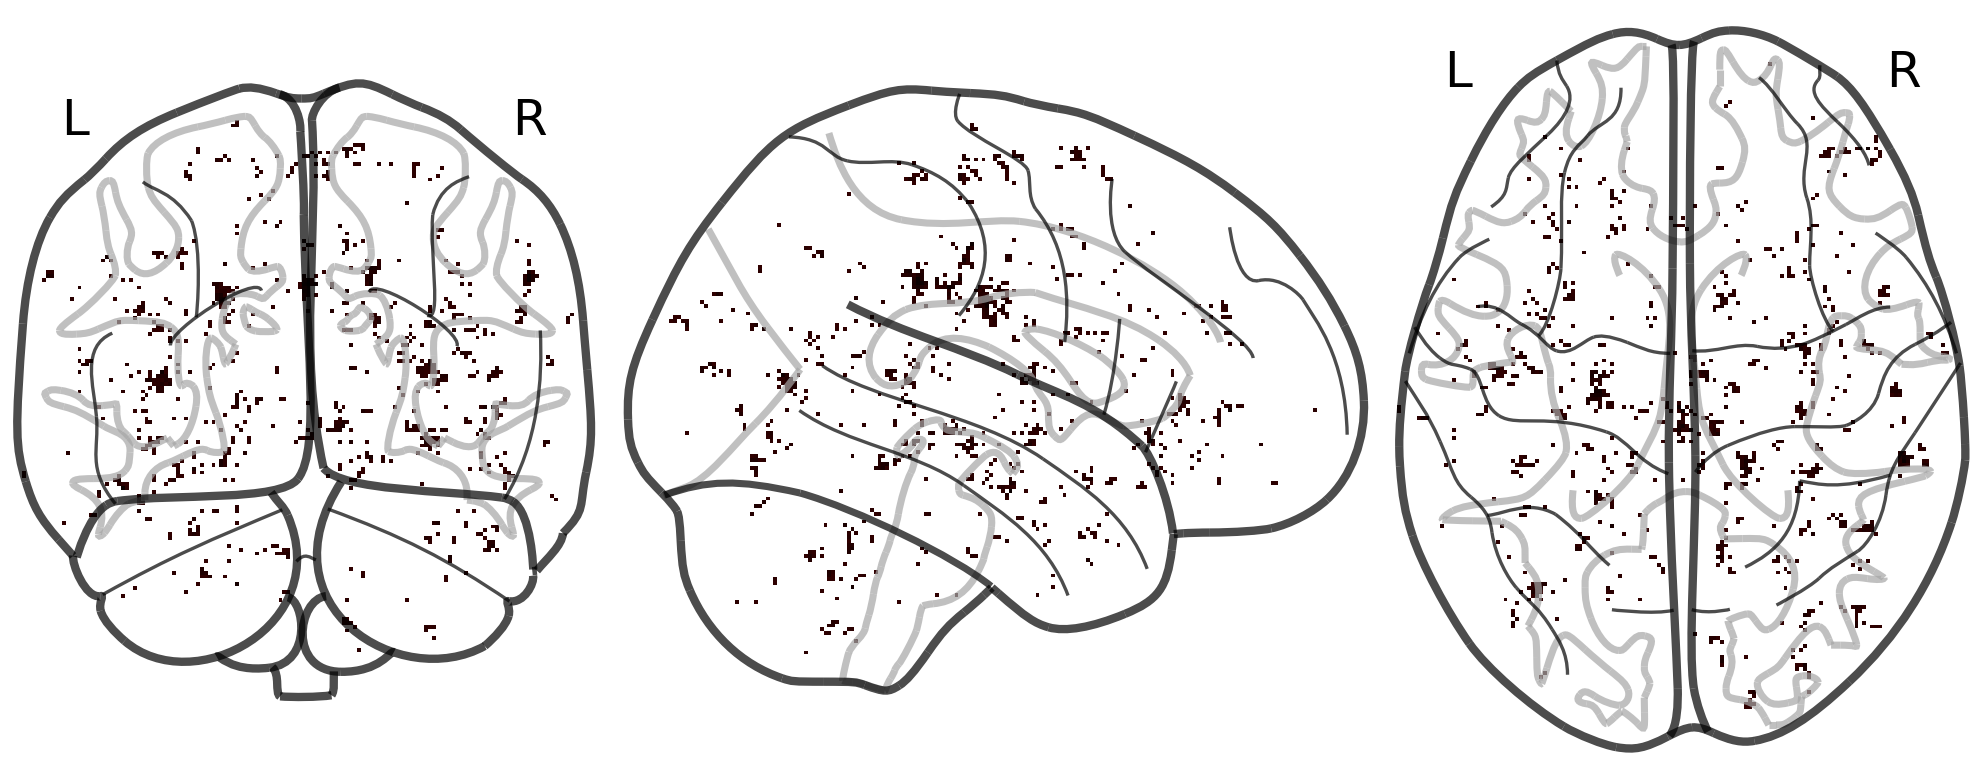
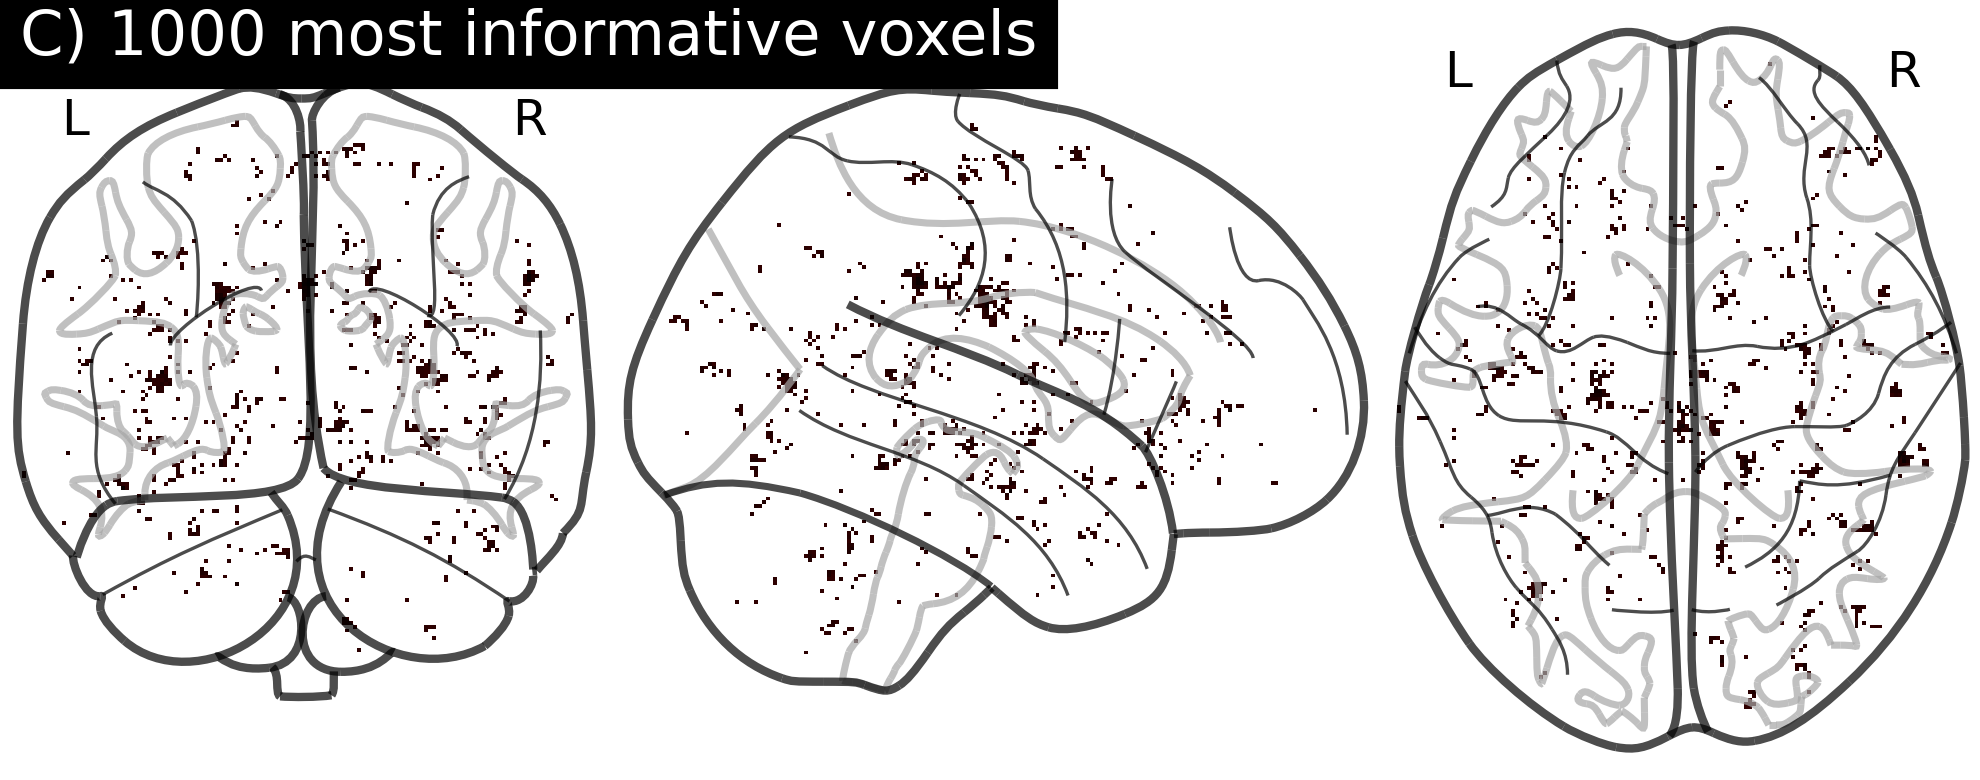
add plot titles

Changed region(s): [[0.0, 0.0, 0.5545, 0.1231]]

diff --git a/plot_searchlight.py b/plot_searchlight.py
@@ -14,8 +14,9 @@ if __name__ in "__main__":
     anat_filename='/work/816119/InSpePosNegData/BIDS_2023E/derivatives/sub-0116/anat/sub-0116_acq-T1sequence_run-1_space-MNI152NLin2009cAsym_desc-preproc_T1w.nii.gz'
 
     best_sets = [200.0, 500.0, 1000.0]
+    titles = ["A) 200 most informative voxels", "B) 500 most informative voxels", "C) 1000 most informative voxels"]
 
-    for best in best_sets:
+    for i, best in enumerate(best_sets):
         # find the percentile that makes the cutoff for the X best voxels
         perc=100*(1-best/searchlight.scores_.size)
 
@@ -26,5 +27,5 @@ if __name__ in "__main__":
         searchlight_img = new_img_like(anat_filename, searchlight.scores_)
 
         # plot
-        fig = plot_glass_brain(searchlight_img, threshold=cut)
+        fig = plot_glass_brain(searchlight_img, threshold=cut, title=titles[i])
         fig.savefig(f"out/pos_neg_searchlight_{int(best)}.png", dpi=300)
